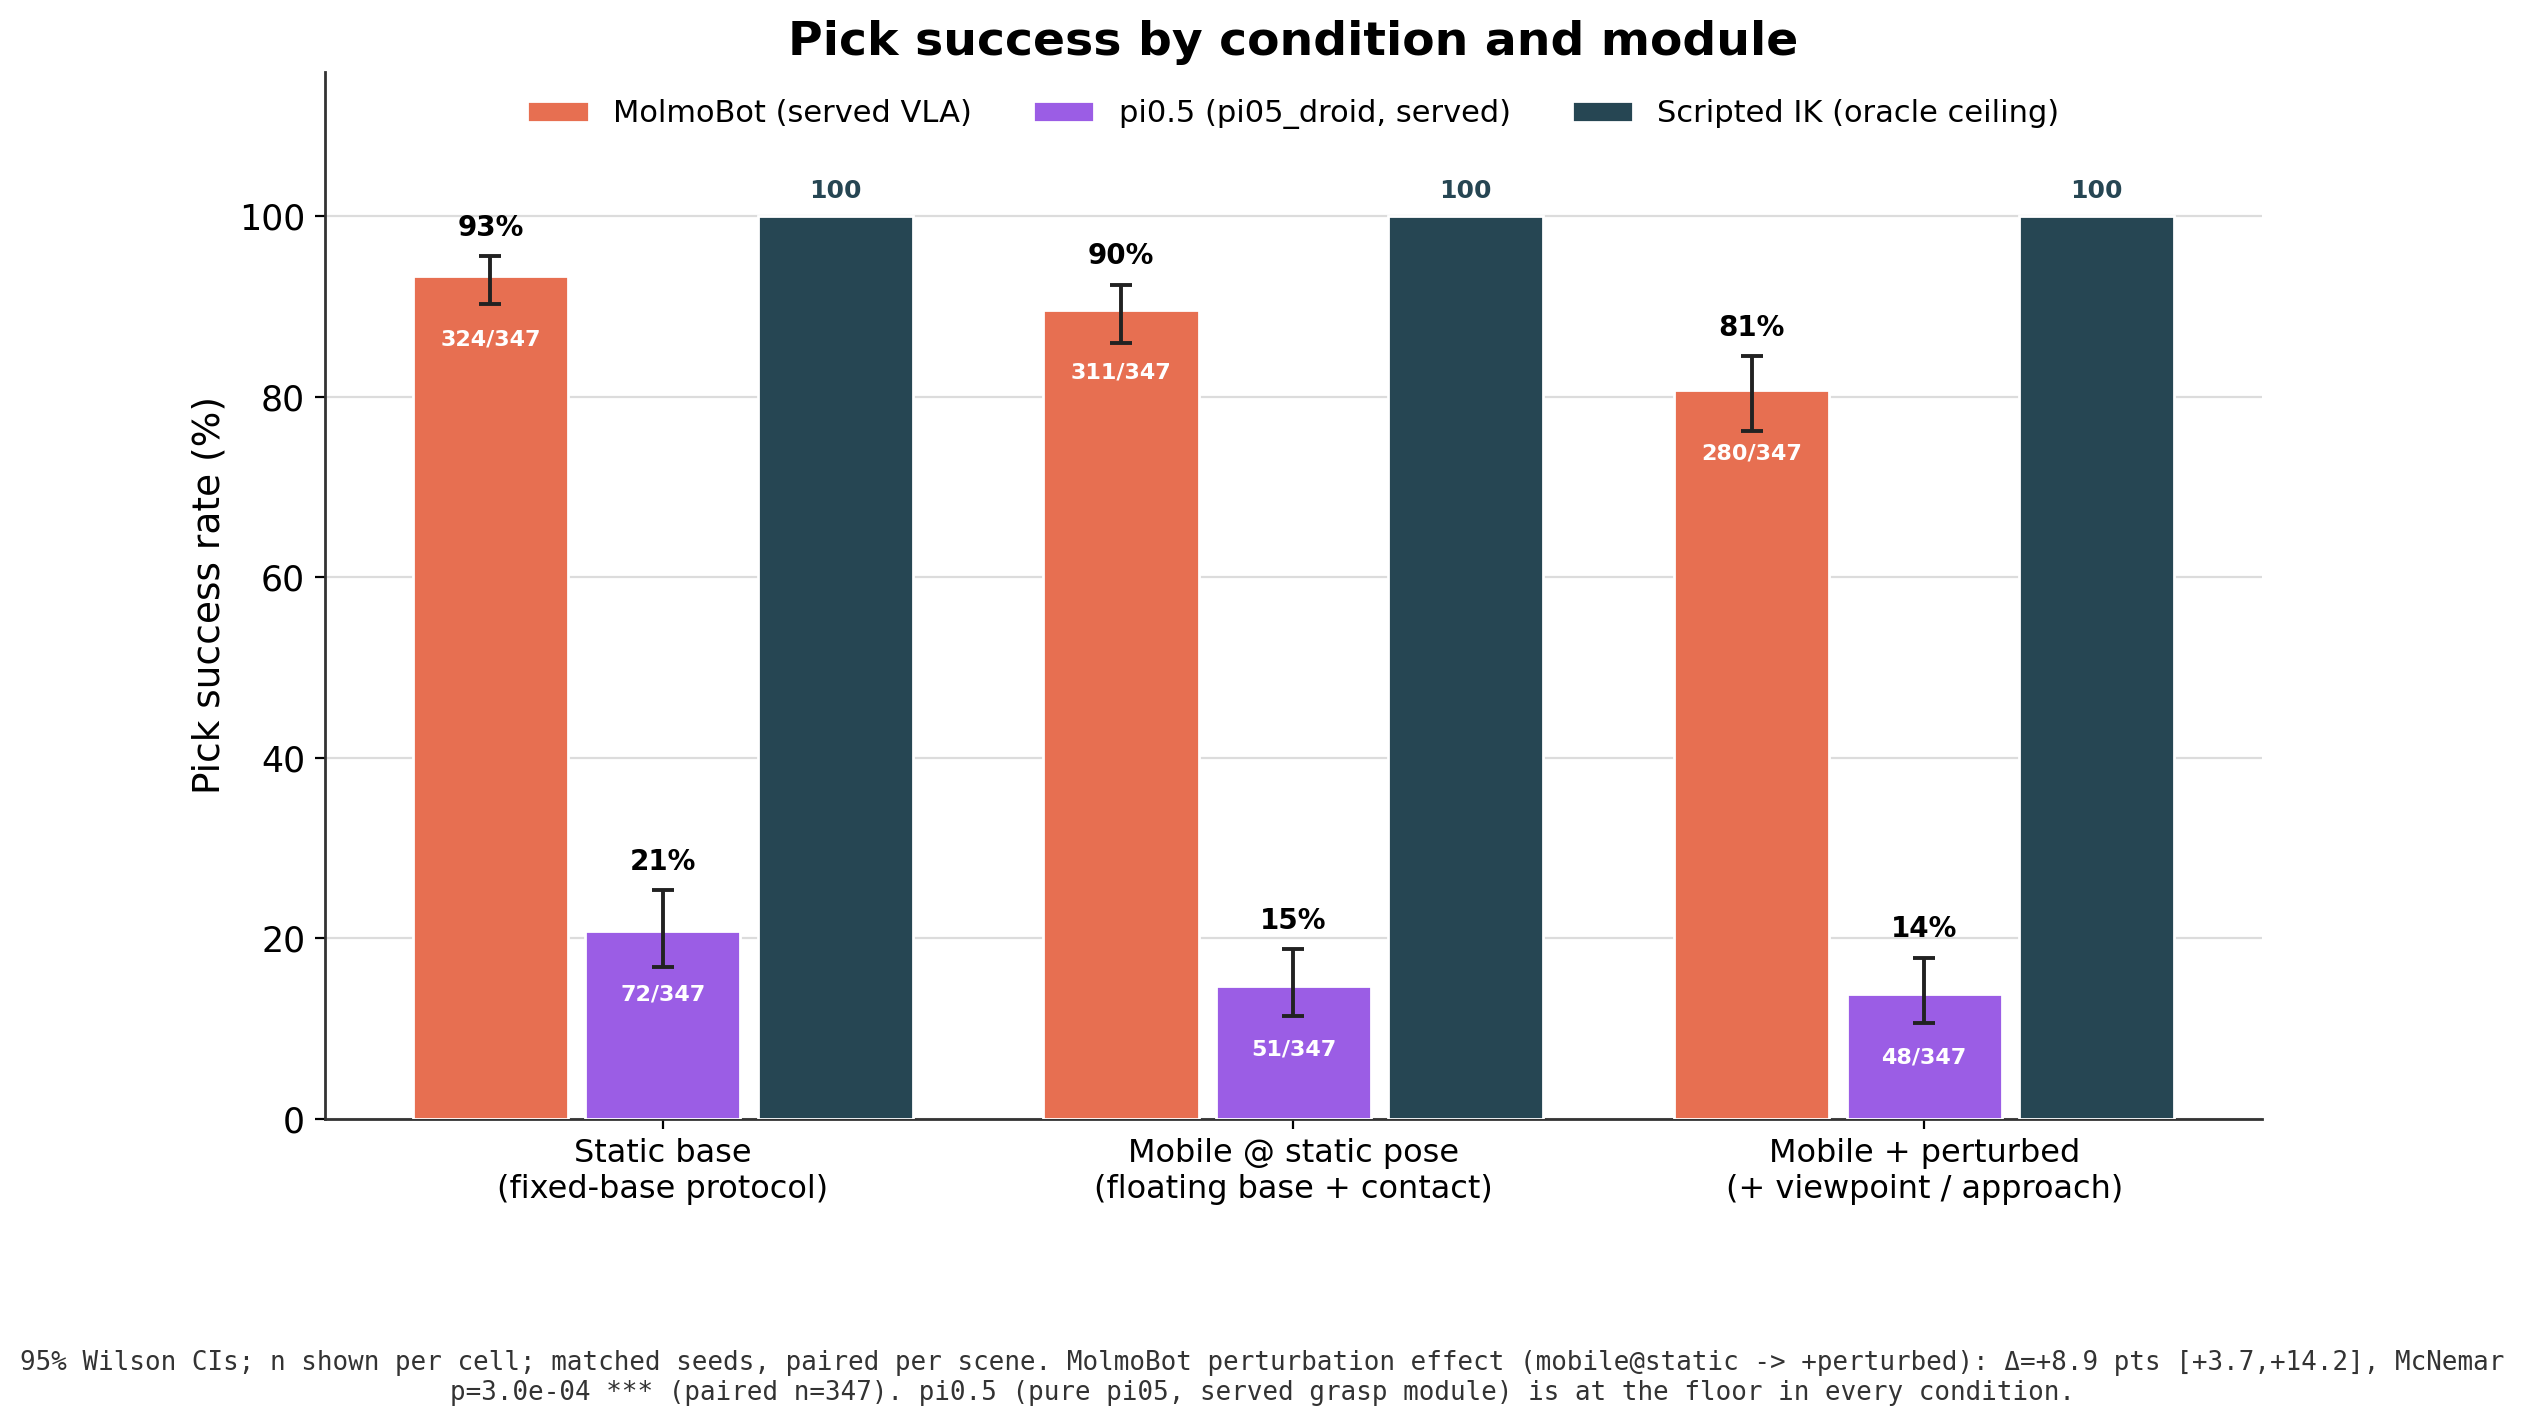
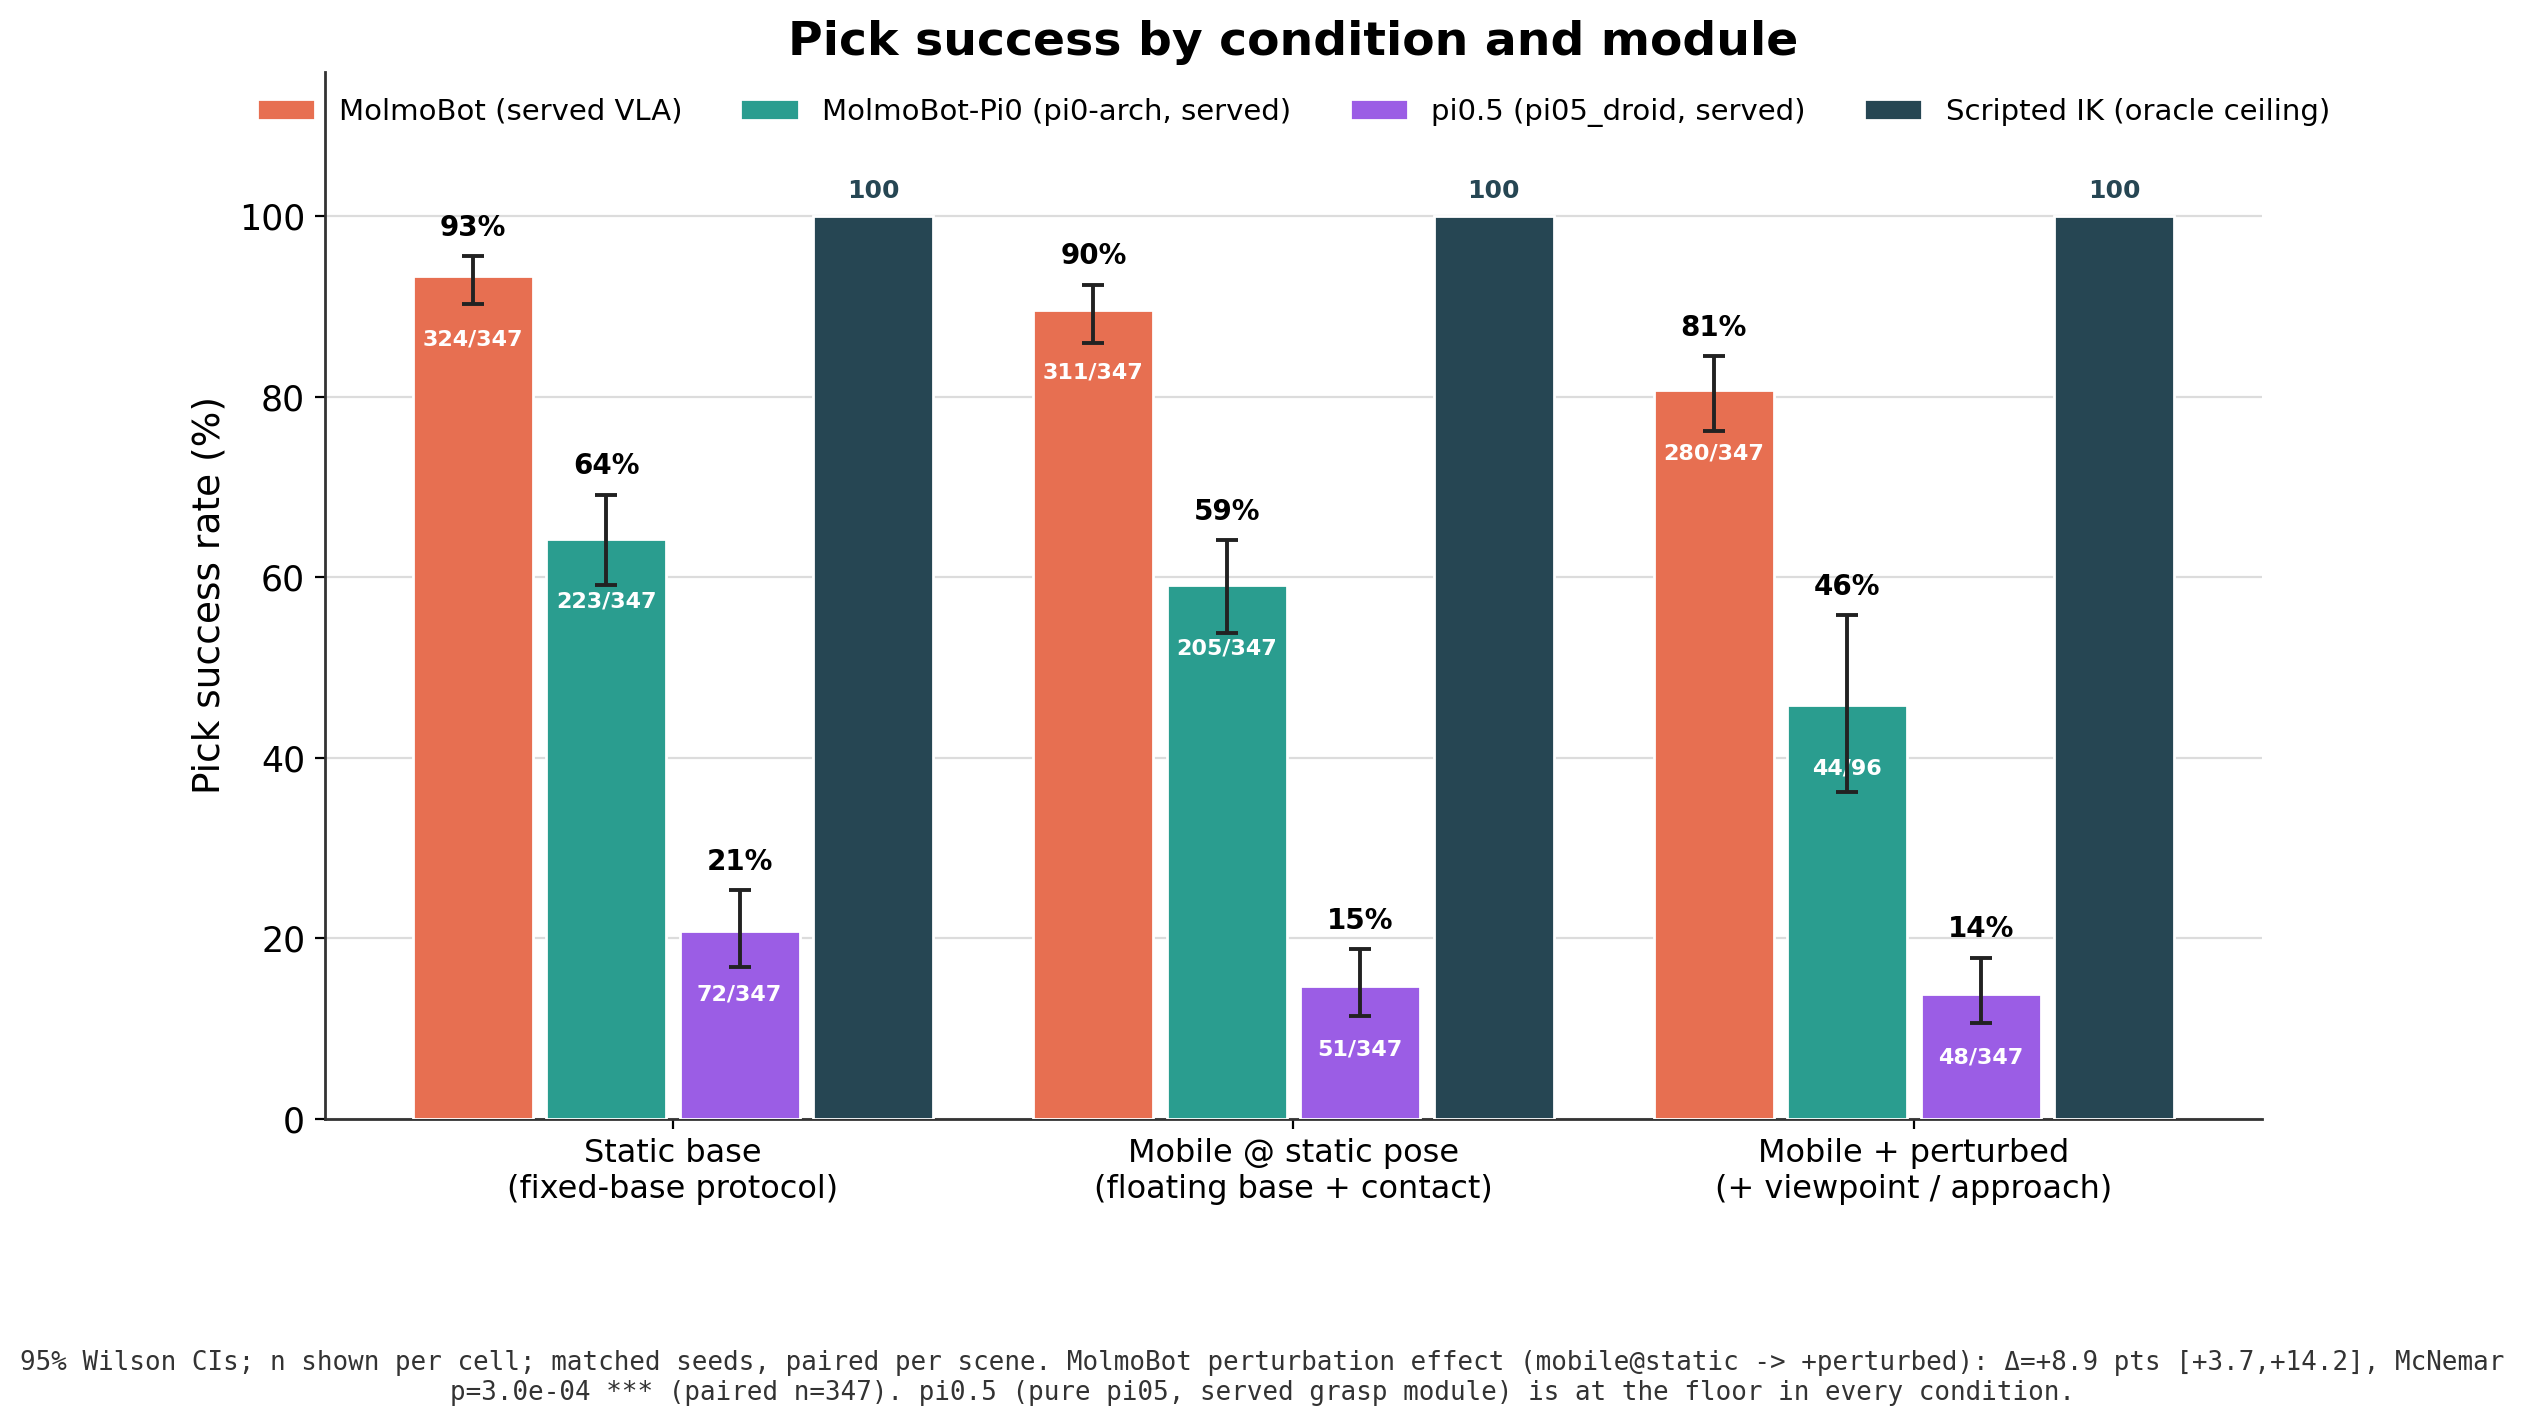
add MolmoBot-Pi0-DROID as 4th module across charts
Bench allenai/MolmoBot-Pi0-DROID (pi0-arch MolmoBot variant) as the swapped
grasp module on origpose, full 347/cell. static 64.3% (223/347), mobile@static
59.1% (205/347), perturbed 45.8% (partial 44/96, still running). Sits between
MolmoBot and pi0.5, degrades monotonically.

- molmobot_sweep.py: mbpi0_mobile / mbpi0_static_hybrid modes (serve_mbpi0.py,
  reuse pi05 hybrid eval configs; absolute-jointpos decoding, not pi0.5 delta)
- make_poster_charts_v4.py: 4th series in chart1 (grouped bars), chart2 (radius),
  chart3 (slopegraph)

diff --git a/scripts/make_poster_charts_v4.py b/scripts/make_poster_charts_v4.py
@@ -38,6 +38,7 @@ OUT = REPO / "results/molmobot_sweep/charts_v4"
 OUT.mkdir(parents=True, exist_ok=True)
 
 C_MOLMO, C_PI, C_SCRIPT = "#e76f51", "#9b5de5", "#264653"
+C_MBPI0 = "#2a9d8f"  # MolmoBot-Pi0-DROID (pi0-architecture MolmoBot variant)
 GRID = "#dcdcdc"
 plt.rcParams.update({
     "font.family": "DejaVu Sans", "font.size": 12.5,
@@ -55,6 +56,9 @@ SRC = {
     "pi_static":   Path("/tmp/pi05_sh/results.jsonl"),
     "pi_mobstat":  Path("/tmp/pi05_ms/results.jsonl"),
     "pi_perturb":  Path("/tmp/pi05_pt/results.jsonl"),
+    "mbpi0_static":  Path("/tmp/mbpi0_sh/mbpi0_static_hybrid_results.jsonl"),
+    "mbpi0_mobstat": Path("/tmp/mbpi0_ms/mbpi0_mobile_results.jsonl"),
+    "mbpi0_perturb": Path("/tmp/mbpi0_pt/mbpi0_mobile_results.jsonl"),
 }
 
 
@@ -105,6 +109,7 @@ def star(p):
 d = {k: load(k) for k in SRC}
 K = {k: kn(v) for k, v in d.items()}
 mb_pairs = radius_pairs("/tmp/mb_pt/r*.log")  # NEW full-347 MolmoBot perturbed run (origpose)
+mbpi0_pairs = radius_pairs("/tmp/mbpi0_pt/r*.log")  # MolmoBot-Pi0 perturbed run (origpose)
 pi_pairs = (radius_pairs("/tmp/pi05_pt/r*.log") + radius_pairs("/tmp/pi05_pert2/r*.log")
             + radius_pairs("/tmp/pi05_pt3/r*.log") + radius_pairs("/tmp/pi05_pt4/r*.log"))
 print({k: f"{v[0]}/{v[1]}" for k, v in K.items()}, "mb_pairs", len(mb_pairs), "pi_pairs", len(pi_pairs))
@@ -114,6 +119,7 @@ CONDS = ["Static base\n(fixed-base protocol)",
          "Mobile + perturbed\n(+ viewpoint / approach)"]
 # module -> [(k,n) per condition]
 MB = [K["mb_static"], K["mb_mobstat"], K["mb_perturb"]]
+MBPI0 = [K["mbpi0_static"], K["mbpi0_mobstat"], K["mbpi0_perturb"]]
 PI = [K["pi_static"], K["pi_mobstat"], K["pi_perturb"]]
 
 # ===========================================================================
@@ -121,7 +127,8 @@ PI = [K["pi_static"], K["pi_mobstat"], K["pi_perturb"]]
 # ===========================================================================
 fig, ax = plt.subplots(figsize=(12.5, 6.8))
 nC = 3
-gw = 0.82; bw = gw / 3
+NBARS = 4
+gw = 0.86; bw = gw / NBARS
 xb = np.arange(nC)
 def bars(offset, series, color, label, ceiling=False):
     for ci in range(nC):
@@ -140,12 +147,13 @@ def bars(offset, series, color, label, ceiling=False):
         ax.text(x, hi * 100 + 1.6, f"{p*100:.0f}%", ha="center", va="bottom", fontsize=10, fontweight="bold")
         ax.text(x, max(3.5, p * 100 - 7), f"{k}/{n}", ha="center", va="center", fontsize=8, color="white", fontweight="bold")
 bars(0, MB, C_MOLMO, "MolmoBot (served VLA)")
-bars(1, PI, C_PI, "pi0.5 (pi05_droid, served)")
-bars(2, None, C_SCRIPT, "Scripted IK (oracle ceiling)", ceiling=True)
+bars(1, MBPI0, C_MBPI0, "MolmoBot-Pi0 (pi0-arch, served)")
+bars(2, PI, C_PI, "pi0.5 (pi05_droid, served)")
+bars(3, None, C_SCRIPT, "Scripted IK (oracle ceiling)", ceiling=True)
 ax.set_xticks(xb); ax.set_xticklabels(CONDS, fontsize=11.5)
 ax.set_ylabel("Pick success rate (%)"); ax.set_ylim(0, 116); ax.set_yticks(range(0, 101, 20))
 ax.set_title("Pick success by condition and module")
-ax.legend(loc="upper center", bbox_to_anchor=(0.5, 1.0), ncol=3, frameon=False, fontsize=11)
+ax.legend(loc="upper center", bbox_to_anchor=(0.5, 1.0), ncol=4, frameon=False, fontsize=10.5)
 ax.grid(axis="y", color=GRID, lw=0.8, zorder=0); ax.set_axisbelow(True)
 ax.spines[["top", "right"]].set_visible(False)
 # stats panel
@@ -169,7 +177,7 @@ def binned(pairs):
         for i in range(len(edges) - 1):
             if edges[i] <= r < edges[i + 1]: b[i][1] += 1; b[i][0] += int(s); break
     return b
-mbb, pib = binned(mb_pairs), binned(pi_pairs)
+mbb, pib, mbpi0b = binned(mb_pairs), binned(pi_pairs), binned(mbpi0_pairs)
 fig, ax = plt.subplots(figsize=(12.5, 6.8))
 ax.plot([0, 0.72], [100, 100], "-", color=C_SCRIPT, lw=2.4, marker="s", ms=7, markevery=[0, 1],
         label="Scripted IK (feasibility ceiling)", zorder=3)
@@ -186,6 +194,14 @@ if mb_pairs:
                 fmt="o", color=C_MOLMO, ms=7, elinewidth=1.5, capsize=4, zorder=6)
     for x, p, i in zip(mids, mp, range(4)):
         ax.annotate(f"n={mbb[i][1]}", (x, p), textcoords="offset points", xytext=(0, -20), ha="center", fontsize=9, color="#7a2f1c")
+# MolmoBot-Pi0 line (binned, sits between MolmoBot and pi0.5)
+qp = [wilson(mbpi0b[i][0], mbpi0b[i][1])[0] * 100 if mbpi0b[i][1] else None for i in range(4)]
+qmask = [(m, v, mbpi0b[i][1]) for i, (m, v) in enumerate(zip(mids, qp)) if v is not None]
+if qmask:
+    ax.plot([m for m, v, n in qmask], [v for m, v, n in qmask], "-o", color=C_MBPI0, lw=2.4, ms=7,
+            label="MolmoBot-Pi0 (served grasp module)", zorder=6)
+    for m, v, n in qmask:
+        ax.annotate(f"n={n}", (m, v), textcoords="offset points", xytext=(0, 11), ha="center", fontsize=8.5, color="#1d6f63")
 # pi0.5 line (flat ~0)
 pp = [wilson(pib[i][0], pib[i][1])[0] * 100 if pib[i][1] else None for i in range(4)]
 pmask = [(m, v, pib[i][1]) for i, (m, v) in enumerate(zip(mids, pp)) if v is not None]
@@ -211,15 +227,19 @@ fig.savefig(OUT / "chart2_success_vs_radius.png"); plt.close(fig)
 fig, ax = plt.subplots(figsize=(11, 6.8))
 xs = [0, 1, 2]
 for series, color, lab in [(MB, C_MOLMO, "MolmoBot (served VLA)"),
+                           (MBPI0, C_MBPI0, "MolmoBot-Pi0 (pi0-arch, served)"),
                            (PI, C_PI, "pi0.5 (pi05_droid, served)")]:
     ys = [wilson(k, n)[0] * 100 for k, n in series]
     los = [(wilson(k, n)[0] - wilson(k, n)[1]) * 100 for k, n in series]
     his = [(wilson(k, n)[2] - wilson(k, n)[0]) * 100 for k, n in series]
     ax.errorbar(xs, ys, yerr=[los, his], color=color, lw=2.6, marker="o", ms=10, capsize=5,
                 elinewidth=1.5, label=lab, zorder=5)
+    dy = {C_MOLMO: 12, C_MBPI0: 12, C_PI: -24}[color]
+    ha = {C_MOLMO: "right", C_MBPI0: "left", C_PI: "center"}[color]
     for x, y, (k, n) in zip(xs, ys, series):
         ax.annotate(f"{y:.0f}%\n{k}/{n}", (x, y), textcoords="offset points",
-                    xytext=(0, 12 if color == C_MOLMO else -24), ha="center", fontsize=9.5, fontweight="bold", color=color)
+                    xytext=(-6 if ha == "right" else (6 if ha == "left" else 0), dy),
+                    ha=ha, fontsize=9.0, fontweight="bold", color=color)
 ax.plot(xs, [100, 100, 100], "-s", color=C_SCRIPT, lw=2.4, ms=9, label="Scripted IK (oracle ceiling)", zorder=4)
 ax.text(2.02, 100, "100%", va="center", fontsize=9.5, color=C_SCRIPT, fontweight="bold")
 ax.set_xticks(xs); ax.set_xticklabels(["Static base\n(fixed-base)", "Mobile @\nstatic pose", "Mobile +\nperturbed"], fontsize=12)

diff --git a/scripts/molmobot_sweep.py b/scripts/molmobot_sweep.py
@@ -79,19 +79,27 @@ MODE_CFG = {
     # "static"/"pi05_static" modes below, which use a different harness/venv).
     "molmobot_static": "molmo_spaces.evaluation.configs.mobile_franka_eval_configs:FrankaHybridMolmobotStaticEvalConfig",
     "pi05_static_hybrid": "molmo_spaces.evaluation.configs.mobile_franka_eval_configs:FrankaHybridPi05StaticEvalConfig",
+    # MolmoBot-Pi0-DROID (pi0-architecture MolmoBot variant) served over the SAME
+    # websocket protocol as pi0.5; reuse the pi05 hybrid eval configs verbatim, only
+    # the served model differs (serve_mbpi0.py vs serve_pi05.py).
+    "mbpi0_mobile": "molmo_spaces.evaluation.configs.mobile_franka_eval_configs:MobileFrankaHybridPi05EvalConfig",
+    "mbpi0_static_hybrid": "molmo_spaces.evaluation.configs.mobile_franka_eval_configs:FrankaHybridPi05StaticEvalConfig",
     "static": "olmo.eval.configure_molmo_spaces:FrankaState8ClampAbsPosConfig",
 }
 
 # Static-hybrid modes that share the served-grasp + molmospaces-harness path with
 # the mobile modes. Centralised so the launch logic stays in one place.
-SERVED_HYBRID_MODES = {"mobile", "pi05_mobile", "molmobot_static", "pi05_static_hybrid"}
+SERVED_HYBRID_MODES = {"mobile", "pi05_mobile", "molmobot_static", "pi05_static_hybrid",
+                       "mbpi0_mobile", "mbpi0_static_hybrid"}
 # Of those, which serve molmobot (vs pure pi0.5). Drives launch_server's branch.
 MOLMOBOT_SERVE_MODES = {"mobile", "molmobot_static"}
+# Which serve MolmoBot-Pi0-DROID (serve_mbpi0.py instead of serve_pi05.py).
+MBPI0_SERVE_MODES = {"mbpi0_mobile", "mbpi0_static_hybrid"}
 
 
 def parse_args() -> argparse.Namespace:
     p = argparse.ArgumentParser()
-    p.add_argument("--mode", choices=["mobile", "pi05_mobile", "molmobot_static", "pi05_static_hybrid", "static", "pi_static", "pi05_static", "pi_mobile"], required=True)
+    p.add_argument("--mode", choices=["mobile", "pi05_mobile", "molmobot_static", "pi05_static_hybrid", "static", "pi_static", "pi05_static", "pi_mobile", "mbpi0_mobile", "mbpi0_static_hybrid"], required=True)
     p.add_argument("--benchmark_dir", required=True, type=Path)
     p.add_argument("--out", required=True, type=Path)
     p.add_argument("--gpus", default="0,1,2,3", help="comma-separated GPU ids to use")
@@ -153,7 +161,8 @@ def launch_server(gpu: int, port: int, log_path: Path, mode: str = "mobile") -> 
         env["POLICY_SERVER_PORT"] = str(port)
         env["OPENPI_DATA_HOME"] = "/tmp/openpi-cache"
         env["HF_HOME"] = HF_HOME
-        cmd = [str(PI_PY), "serve_pi05.py"]
+        serve_script = "serve_mbpi0.py" if mode in MBPI0_SERVE_MODES else "serve_pi05.py"
+        cmd = [str(PI_PY), serve_script]
         return subprocess.Popen(cmd, cwd=str(PI_DIR), env=env,
                                 stdout=open(log_path, "w"), stderr=subprocess.STDOUT)
     cmd = [str(MOLMOBOT_PY), "launch_scripts/serve_molmo.py",
